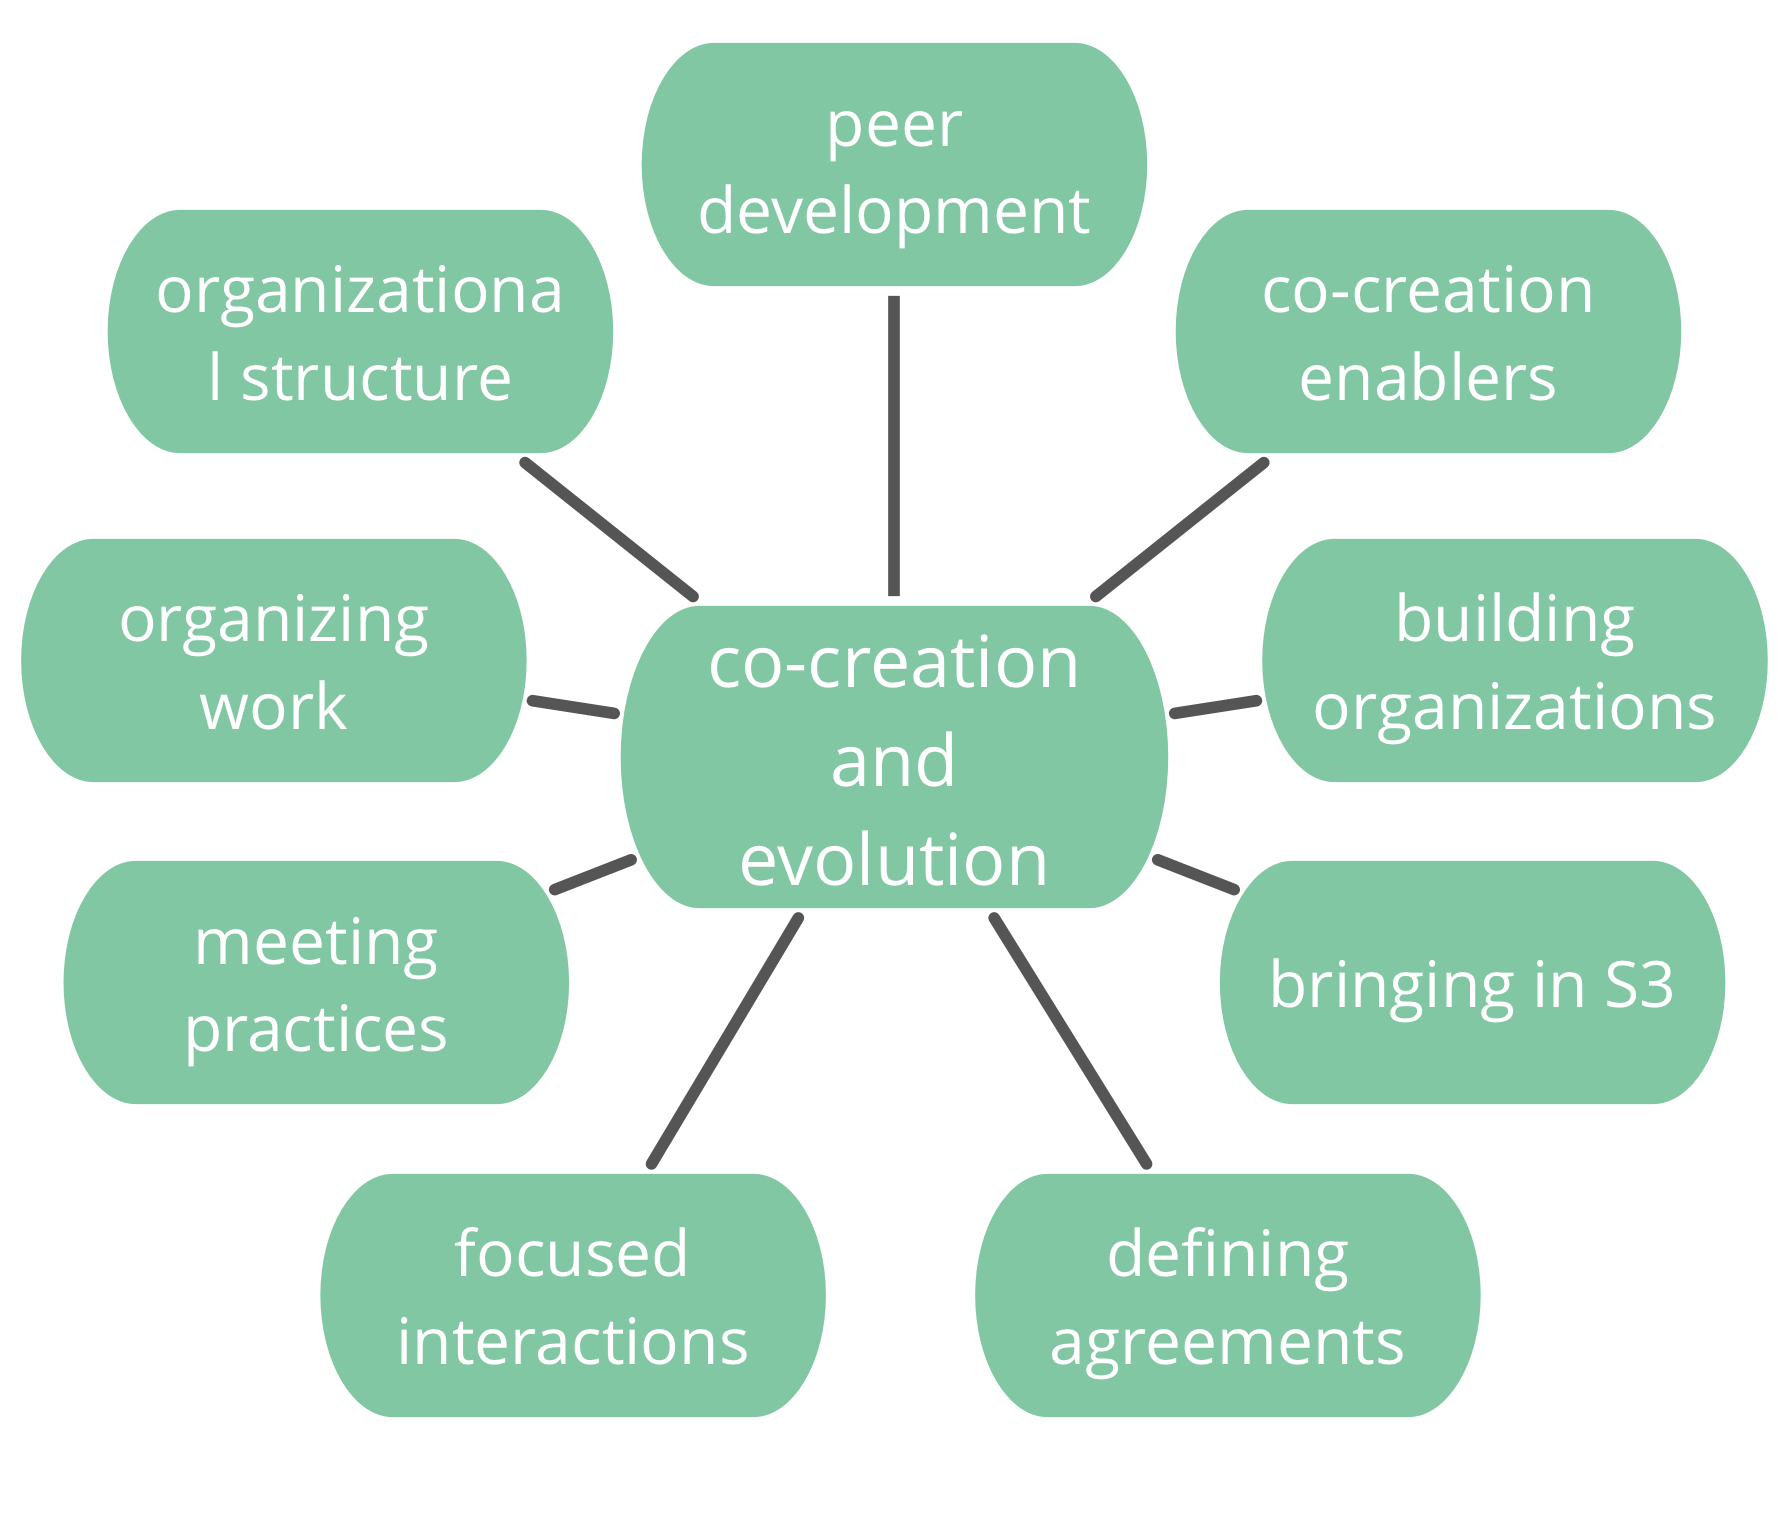
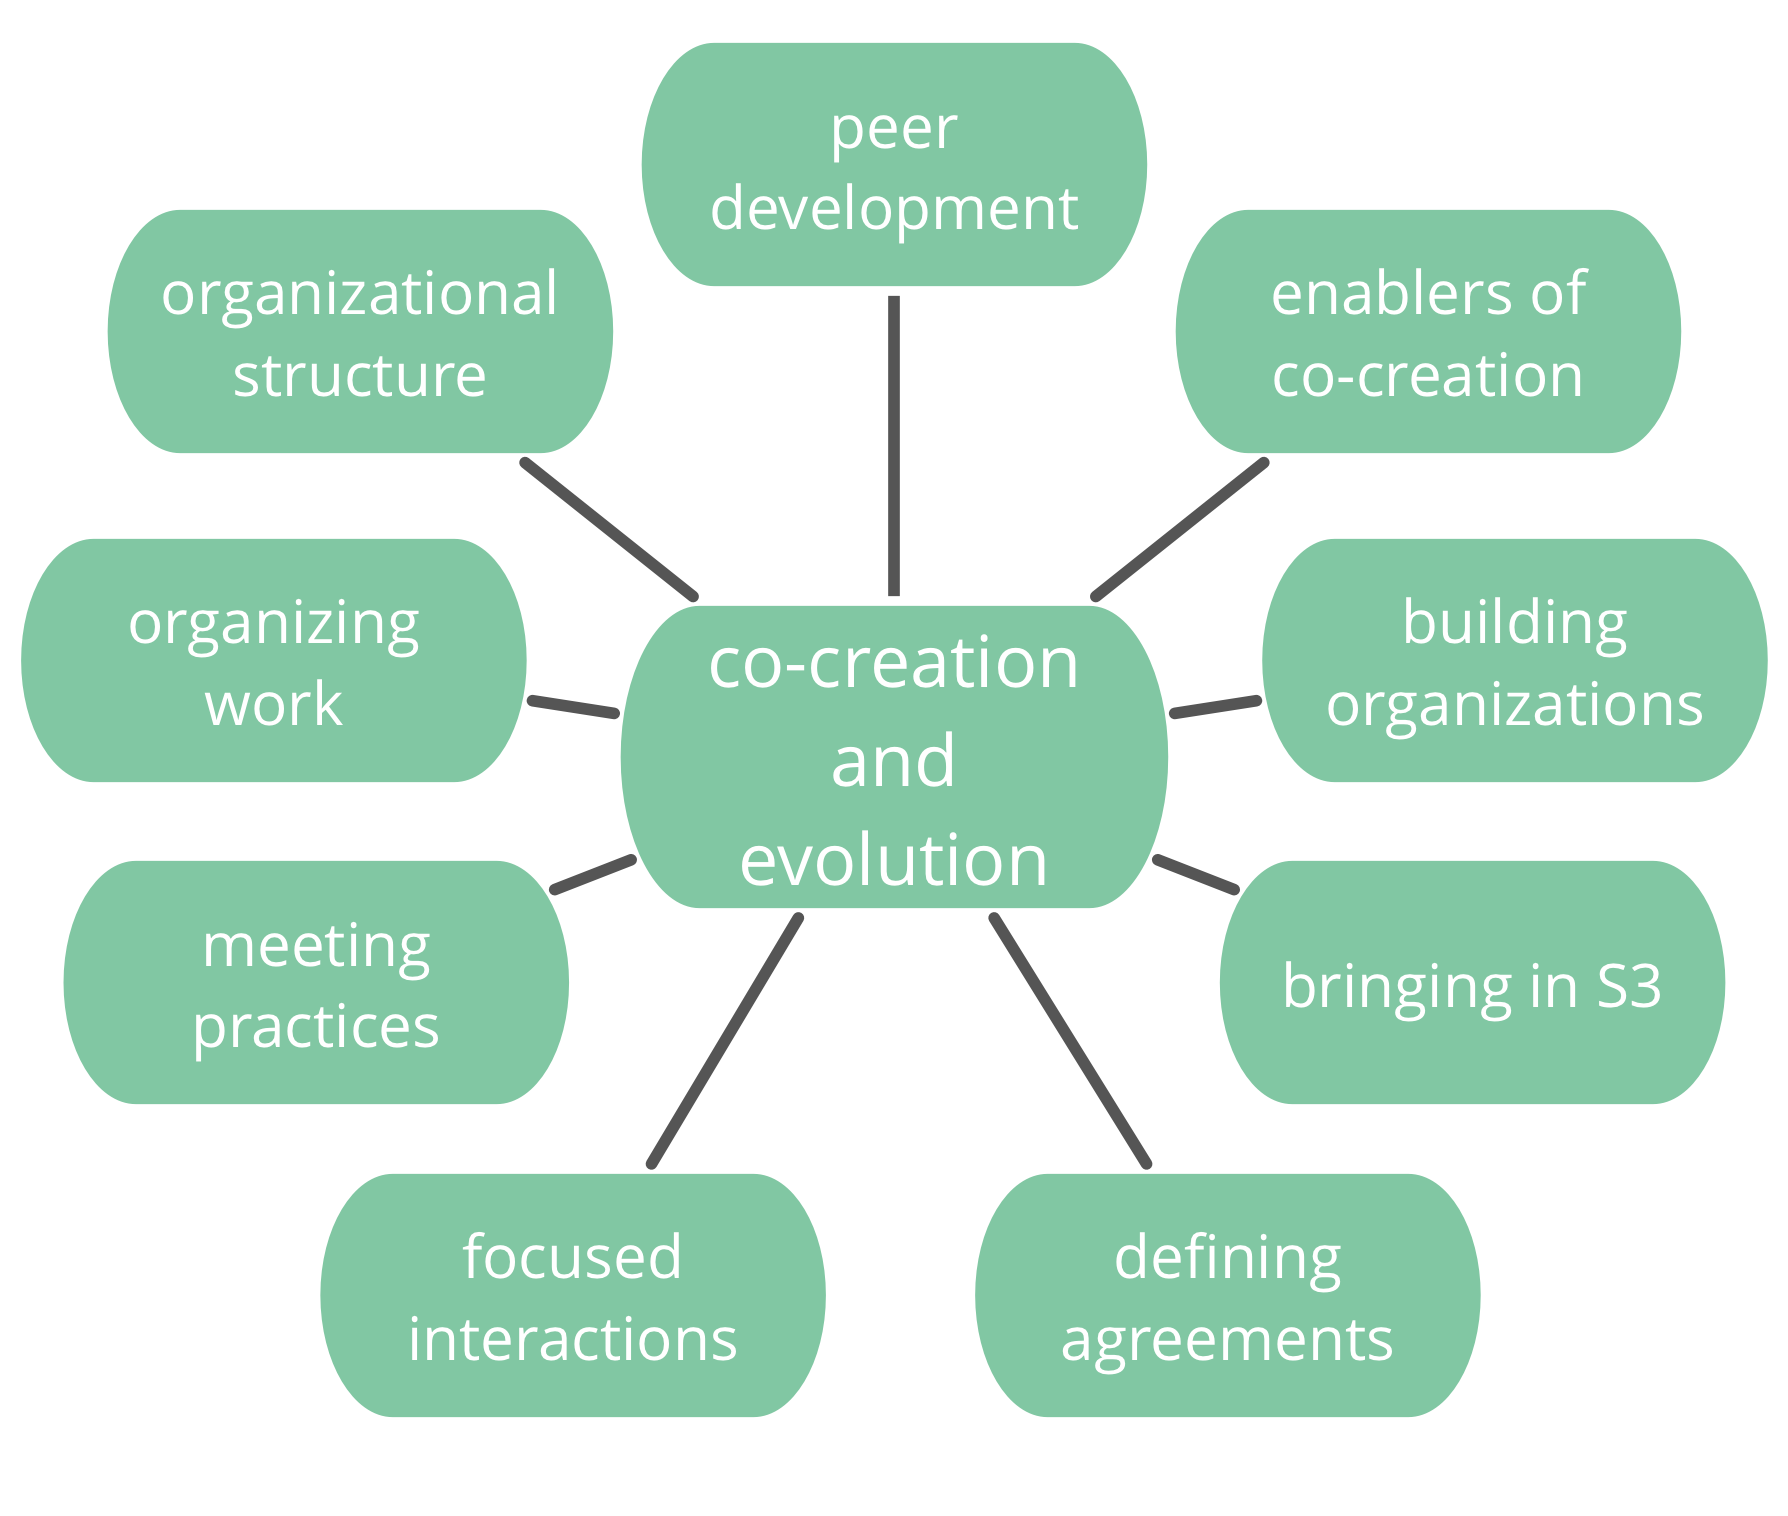
updated images to latest image repo

diff --git a/src/co-creation-and-evolution/driver-mapping.md b/src/co-creation-and-evolution/driver-mapping.md
@@ -10,7 +10,7 @@ A workshop format to identify an effective response to a complex situation: orga
 ## Driver Mapping (cont.)
 
 
-![inline,fit](img/facilitation-guides/driver-mapping-print.png)
+![inline,fit](img/facilitation-guides/driver-mapping-fg-print.png)
 
 ---
 
